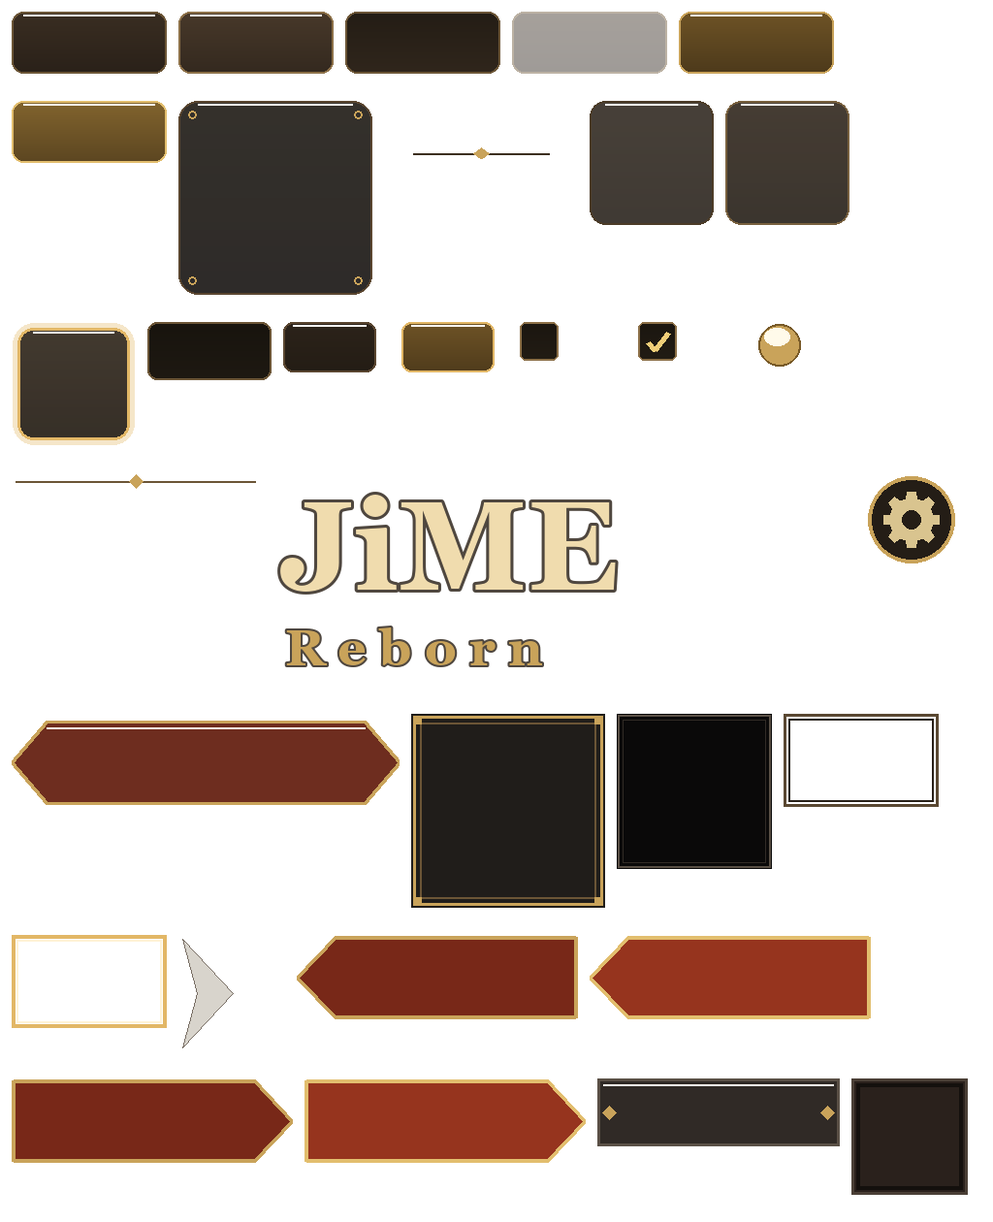
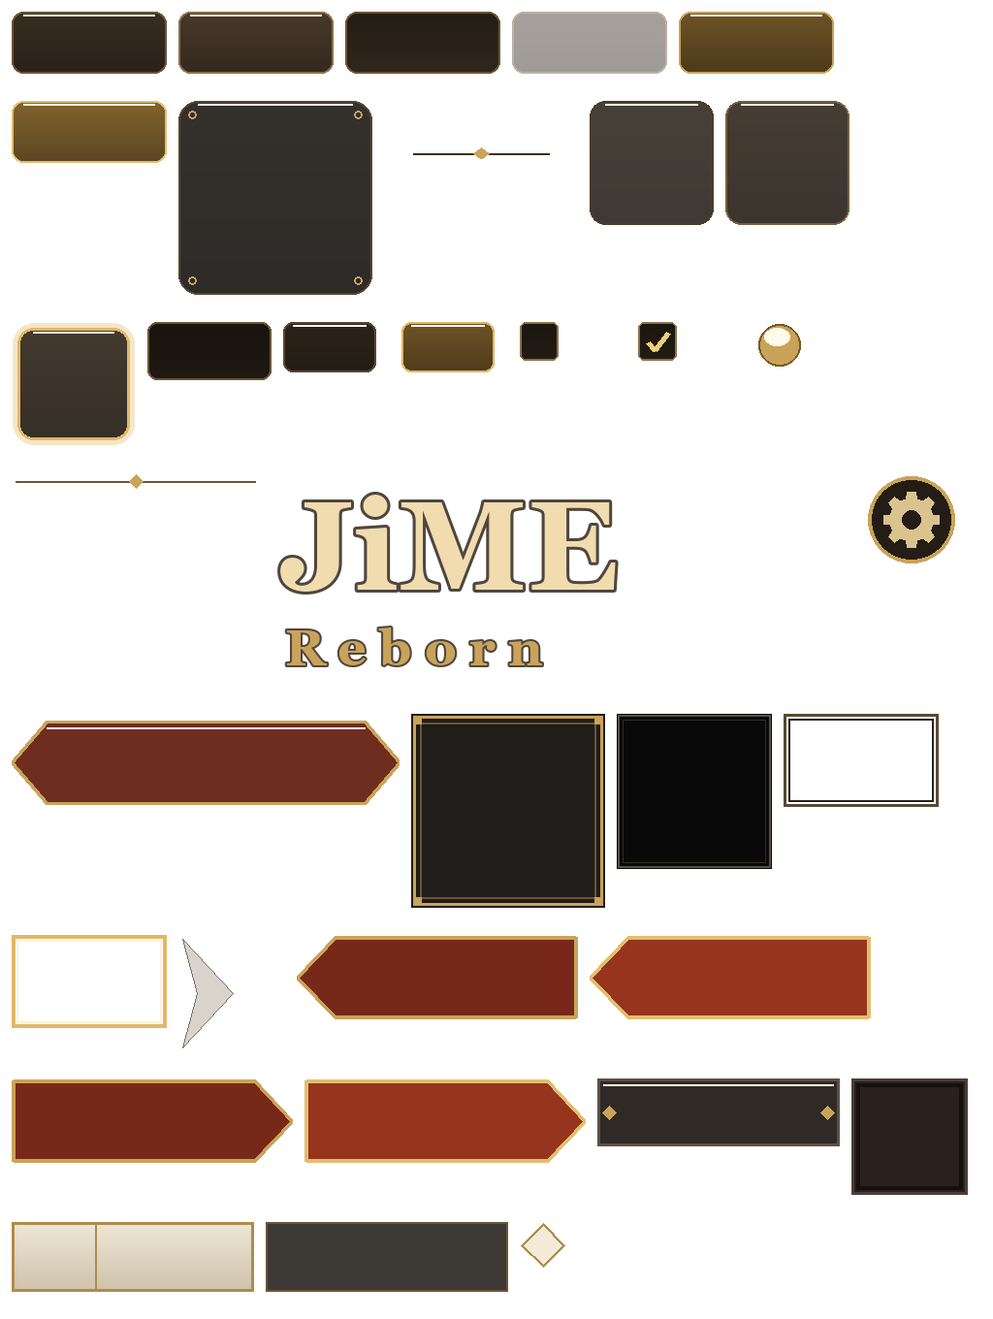
Starting gear and party name laid out like the original
- new step after the heroes: a column per hero (portrait, armor, weapon in hand, a second one unless the first is
  two-handed or a hobbit has none), a click on an item lists the cards it can be swapped for (itemSubstitutes);
  the chosen gear goes into the new campaign (heroItems)
- party name: the title plate, one field in the middle, a warning without a name, back / start in the corners
- the title plate widens with its text; skin regions item, item.empty, level
- demo pack: item types (armors, items) and two leather armors, so every hero starts with armor

Claude-Session: https://claude.ai/code/session_01L8aGjgA4exAss1WkdLM4Fb

diff --git a/apps/app/src/screens/menu/PlainTitle.tsx b/apps/app/src/screens/menu/PlainTitle.tsx
@@ -2,7 +2,7 @@
 // heroes, party name), saved campaigns, settings. The pictures and texts come from the packs; the look from styles.css
 // (.pm-*) and the background from MenuBackground (a theme's parallax layers).
 import { useMemo, useState } from "react";
-import { newCampaignSave, scopeProducts, type CampaignSave, type ContentSource, type Difficulty } from "@jime/engine";
+import { itemCounts, itemSubstitutes, newCampaignSave, scopeProducts, type CampaignSave, type ContentSource, type Difficulty } from "@jime/engine";
 import { setLang, useLang } from "../../data/lang.ts";
 import { inTauri, quitApp } from "../../data/host.ts";
 import { installTheme, loadPackSet, themeChoice } from "../../data/pack.ts";
@@ -13,7 +13,7 @@ import { MenuBackground } from "./MenuBackground.tsx";
 import { refId, useMenuData, type MenuUi } from "./useMenuData.ts";
 import { useEffect } from "react";
 
-type Page = "main" | "campaign" | "difficulty" | "heroes" | "party" | "load" | "settings";
+type Page = "main" | "campaign" | "difficulty" | "heroes" | "items" | "party" | "load" | "settings";
 const LANG_NAME: Record<string, string> = { ru: "Русский", en: "English", it: "Italiano", de: "Deutsch", fr: "Français", es: "Español", pl: "Polski", uk: "Українська" };
 
 /** HeroModel ids a campaign may use (its products, else every hero), sorted by name */
@@ -51,6 +51,10 @@ export function PlainTitle({ onPlay, onTools, hasOriginal }: {
   const [heroes, setHeroes] = useState<number[]>([]);
   const [party, setParty] = useState("");
   const [shelf, setShelf] = useState(0); // the page of campaign thumbnails
+  // starting items per hero: [armor, weapon, second weapon] (StartingItemController), the slot being replaced
+  const [items, setItems] = useState<(number | null)[][]>([]);
+  const [replace, setReplace] = useState<{ hero: number; slot: number } | null>(null);
+  const [nameWarn, setNameWarn] = useState(false);
   const [langs, setLangs] = useState<string[]>(["ru", "en", "it"]);
   useEffect(() => { loadPackSet().then((s) => { if (s.langs.length) setLangs(s.langs); }).catch(() => {}); }, []);
   useEffect(() => { sound.music(page === "main" || page === "load" || page === "settings" ? "TitlescreenMusic" : "NewGameMusic"); }, [page]);
@@ -65,7 +69,9 @@ export function PlainTitle({ onPlay, onTools, hasOriginal }: {
   const start = () => {
     const src = { db: () => ui.db } as unknown as ContentSource;
     const owned = ownedProducts();
-    const s = newCampaignSave(src, { campaign: campaign!, heroes, difficulty, partyName: party.trim(), language: lang, ...(owned ? { products: owned } : {}) });
+    const heroItems = heroes.map((_, i) => (items[i] ?? []).filter((x): x is number => x !== null));
+    const s = newCampaignSave(src, { campaign: campaign!, heroes, difficulty, partyName: party.trim(), language: lang, heroItems,
+      ...(owned ? { products: owned } : {}) });
     putSave(s);
     onPlay(s, true);
   };
@@ -195,16 +201,93 @@ export function PlainTitle({ onPlay, onTools, hasOriginal }: {
           })}
         </div>
         <button className="lo-corner lo-back" onClick={() => { setShelf(0); setPage("difficulty"); }}><span>{t("back")}</span></button>
-        <button className="lo-corner lo-next" disabled={!heroes.length} onClick={() => setPage("party")}><span>{t("toParty")}</span></button>
+        <button className="lo-corner lo-next" disabled={!heroes.length}
+          onClick={() => { setItems(defaultItems(ui, heroes, scopeProducts(ui.db, campaign, ownedProducts()))); setReplace(null); setPage("items"); }}>
+          <span>{t("toItems")}</span></button>
+      </div>
+    );
+  } else if (page === "items") {
+    // like the original: a column per hero (name, portrait, armor, weapon in hand and a second one), a click on an item
+    // opens the list of the cards it can be swapped for (same level and kind, copies left in the products)
+    const I = ui.db.models.ItemModel ?? {};
+    const products = scopeProducts(ui.db, campaign, ownedProducts());
+    const twoHanded = (id: number | null) => id !== null && !!Number(I[String(id)]?.Is2Handed ?? 0);
+    const hobbit = (h: number) => (Number(H[String(h)]?.Traits ?? 0) & 8) !== 0;
+    const itemCard = (id: number | null, onClick: () => void, key?: string | number) => {
+      const m = id !== null ? I[String(id)] : null;
+      const icon = id !== null ? ui.art.items[String(id)]?.Icon : undefined;
+      return (
+        <button key={key} className={`lo-item${m ? "" : " empty"}`} onClick={onClick}>
+          <span className="lo-item-icon">{icon && <img src={ui.pic(icon)} alt="" />}</span>
+          <b>{m ? ui.raw(m.NameKey) || m.m_Name : t("noneChosen")}</b>
+          {m && <i className="lo-item-level">{roman(Number(m.Level ?? 1))}</i>}
+          {twoHanded(id) && <i className="lo-item-2h" title={t("twoHanded")}>✋✋</i>}
+        </button>
+      );
+    };
+    const choose = (hero: number, slot: number, id: number) => {
+      setItems((all) => all.map((row, i) => {
+        if (i !== hero) return row;
+        const r = [...row];
+        if (slot > 0 && twoHanded(id)) { r[1] = id; r[2] = null; } else r[slot] = id;
+        return r;
+      }));
+      setReplace(null);
+    };
+    const subs = replace ? itemSubstitutes(ui.db, items.map((r) => r.filter((x): x is number => x !== null)), heroes[replace.hero]!,
+      replace.slot === 0 ? "armor" : "weapon", items[replace.hero]?.[replace.slot] ?? null, products) : [];
+    const repId = replace ? items[replace.hero]?.[replace.slot] ?? null : null;
+    body = (
+      <div className="lo-campaign lo-items">
+        <h2 className="lo-banner"><span>{t("toItems")}</span></h2>
+        <div className="lo-gear-cols">
+          {heroes.map((h, i) => {
+            const row = items[i] ?? [null, null, null];
+            const a = ui.art.heroes[String(h)];
+            const second = !twoHanded(row[1] ?? null) && (row[2] !== null || !hobbit(h));
+            return (
+              <div key={h} className="lo-gear-col">
+                <div className="lo-hero lo-gear-hero">
+                  <b className="lo-hero-name"><span>{ui.raw(H[String(h)]?.NameKey)}</span></b>
+                  <span className="lo-hero-pic">{(a?.portrait || a?.icon) ? <img src={ui.pic(a.portrait ?? a.icon)} alt="" /> : <i>{ui.raw(H[String(h)]?.NameKey).slice(0, 1)}</i>}</span>
+                </div>
+                <small>{t("armor")}</small>
+                {itemCard(row[0] ?? null, () => setReplace({ hero: i, slot: 0 }))}
+                <small>{t("inHands")}</small>
+                {itemCard(row[1] ?? null, () => setReplace({ hero: i, slot: 1 }))}
+                {second && itemCard(row[2] ?? null, () => setReplace({ hero: i, slot: 2 }))}
+              </div>
+            );
+          })}
+        </div>
+        {replace && (
+          <div className="lo-modal" onClick={() => setReplace(null)}>
+            <div className="lo-replace" onClick={(e) => e.stopPropagation()}>
+              <p>{repId !== null ? t("replaceItem") : t(replace.slot === 0 ? "chooseArmor" : "chooseItem")}
+                {repId !== null && <b>{ui.raw(I[String(repId)]?.NameKey)}</b>}</p>
+              <div className="lo-replace-list">
+                {subs.length ? subs.map((id) => itemCard(id, () => choose(replace.hero, replace.slot, id), id)) : <p className="muted">{t("noSubstitutes")}</p>}
+              </div>
+            </div>
+          </div>
+        )}
+        <button className="lo-corner lo-back" onClick={() => { setReplace(null); setPage("heroes"); }}><span>{t("back")}</span></button>
+        <button className="lo-corner lo-next" onClick={() => { setReplace(null); setNameWarn(false); setPage("party"); }}><span>{t("toParty")}</span></button>
       </div>
     );
   } else if (page === "party") {
+    // like the original: the title plate, one name field in the middle, back / start in the corners
+    const go = () => { if (!party.trim()) { setNameWarn(true); return; } start(); };
     body = (
-      <Step title={t("partyName")} sub={t("partyNameHint")} onBack={() => setPage("heroes")} onNext={start} nextLabel={t("start")} canNext={party.trim().length > 0} t={t}>
-        <input className="pm-input" autoFocus maxLength={30} value={party} onChange={(e) => setParty(e.target.value)}
-          onKeyDown={(e) => { if (e.key === "Enter" && party.trim()) start(); }} />
-        <p className="pm-summary">{ui.raw(C[String(campaign)]?.TitleKey)} · {heroes.map((h) => ui.raw(H[String(h)]?.NameKey)).join(", ")}</p>
-      </Step>
+      <div className="lo-campaign lo-party">
+        <h2 className="lo-banner"><span>{t("toParty")}</span></h2>
+        <input className="pm-input lo-name" autoFocus maxLength={24} value={party} placeholder={t("partyNamePlaceholder")}
+          onChange={(e) => { setNameWarn(false); setParty(e.target.value); }} onKeyDown={(e) => { if (e.key === "Enter") go(); }} />
+        {nameWarn && <p className="lo-warn">{t("partyNameNeeded")}</p>}
+        <p className="lo-party-sum">{ui.raw(C[String(campaign)]?.TitleKey)} · {heroes.map((h) => ui.raw(H[String(h)]?.NameKey)).join(", ")}</p>
+        <button className="lo-corner lo-back" onClick={() => setPage("items")}><span>{t("back")}</span></button>
+        <button className="lo-corner lo-next" onClick={go}><span>{t("start")}</span></button>
+      </div>
     );
   } else if (page === "load") {
     body = (
@@ -245,6 +328,24 @@ export function PlainTitle({ onPlay, onTools, hasOriginal }: {
       <div className={`pm-page pm-page-${page}`} key={page}>{body}</div>
     </div>
   );
+}
+
+const ROMAN = ["", "I", "II", "III", "IV", "V", "VI"];
+const roman = (n: number) => ROMAN[n] ?? String(n);
+
+/** ItemSelectionSlot.DisplayHero: each hero's default armor / weapon / second weapon while copies are left */
+function defaultItems(ui: MenuUi, heroes: number[], products?: number[]): (number | null)[][] {
+  const max = itemCounts(ui.db, products);
+  const used = new Map<number, number>();
+  const take = (id: number | null) => {
+    if (id === null || (used.get(id) ?? 0) >= (max.get(id) ?? 0)) return null;
+    used.set(id, (used.get(id) ?? 0) + 1);
+    return id;
+  };
+  return heroes.map((h) => {
+    const m = ui.db.models.HeroModel?.[String(h)] ?? {};
+    return [take(refId(m.DefaultArmor)), take(refId(m.DefaultWeapon)), take(refId(m.DefaultSecondWeapon))];
+  });
 }
 
 /** The settings gear (the skin's "gear" picture covers it when there is one) */

diff --git a/apps/app/src/styles.css b/apps/app/src/styles.css
@@ -830,7 +830,7 @@ textarea.ed-input { resize: vertical; white-space: pre-wrap; }
    Sizes in u = 1/1080 of the height of a 16:9 screen (the original's UI scales with the screen like that); the positions
    are fixed, lists scroll or page instead of pushing the layout around. */
 .pm-screen { --u: calc(min(100vh, 56.25vw) / 1080); }
-.pm-page-main, .pm-page-campaign, .pm-page-difficulty, .pm-page-heroes { display: block; padding: 0; }
+.pm-page-main, .pm-page-campaign, .pm-page-difficulty, .pm-page-heroes, .pm-page-items, .pm-page-party { display: block; padding: 0; }
 .lo-title, .lo-campaign { position: absolute; inset: 0; }
 .lo-title .lo-logo { position: absolute; left: calc(72 * var(--u)); top: calc(80 * var(--u)); margin: 0; font-size: calc(130 * var(--u)); line-height: 1; }
 .skinned .lo-title .pm-logo.lo-logo { width: min(calc(270 * var(--u) * var(--ar)), calc(980 * var(--u)), calc(100vw - 144 * var(--u))); }
@@ -851,8 +851,8 @@ textarea.ed-input { resize: vertical; white-space: pre-wrap; }
 .skinned .lo-gear svg { visibility: hidden; }
 
 /* campaign selection: title plate, the chosen campaign (text | picture), the thumbnails shelf, back / next in the corners */
-.lo-banner { position: absolute; left: 50%; top: calc(22 * var(--u)); transform: translateX(-50%); box-sizing: border-box; width: calc(767 * var(--u));
-  max-width: calc(100vw - 32px); height: calc(100 * var(--u)); margin: 0; display: flex; align-items: center; justify-content: center; padding: 0 calc(90 * var(--u));
+.lo-banner { position: absolute; left: 50%; top: calc(22 * var(--u)); transform: translateX(-50%); box-sizing: border-box; width: max-content;
+  min-width: min(calc(767 * var(--u)), calc(100vw - 32px)); max-width: min(calc(1100 * var(--u)), calc(100vw - 32px)); height: calc(100 * var(--u)); margin: 0; display: flex; align-items: center; justify-content: center; padding: 0 calc(90 * var(--u));
   font-family: "JiME Title", Georgia, serif; font-weight: normal; font-size: calc(40 * var(--u)); color: #f3e2b8; text-shadow: 0 2px 4px #000; white-space: nowrap;
   background: linear-gradient(90deg, transparent, #5a1d12 12%, #6e2516 50%, #5a1d12 88%, transparent); }
 .lo-banner span { overflow: hidden; text-overflow: ellipsis; }
@@ -973,4 +973,52 @@ textarea.ed-input { resize: vertical; white-space: pre-wrap; }
   .lo-hero-name { font-size: calc(26 * var(--u)); }
   .lo-slots { top: auto; bottom: calc(150 * var(--u)); }
   .lo-slot { width: calc(100 * var(--u)); height: calc(100 * var(--u)); }
+}
+
+/* starting gear like the original: a column per hero, item cards under the portrait, a replacement list over it */
+.lo-gear-cols { position: absolute; left: 50%; top: calc(170 * var(--u)); bottom: calc(130 * var(--u)); transform: translateX(-50%); display: flex;
+  gap: calc(22 * var(--u)); max-width: calc(100vw - 16px); }
+.lo-gear-col { flex: 0 0 calc(250 * var(--u)); display: flex; flex-direction: column; align-items: center; gap: calc(6 * var(--u)); }
+.lo-gear-col > small { font-family: "JiME Title", Georgia, serif; font-size: calc(24 * var(--u)); color: #f3e2b8; text-shadow: 0 1px 3px #000; margin-top: calc(4 * var(--u)); }
+.lo-hero.lo-gear-hero { height: calc(370 * var(--u)); cursor: default; }
+@media (hover: hover) { .lo-hero.lo-gear-hero:hover { transform: none; } }
+.lo-item { position: relative; box-sizing: border-box; width: calc(250 * var(--u)); height: calc(72 * var(--u)); flex: 0 0 auto; padding: 0 calc(30 * var(--u)) 0 0;
+  display: flex; align-items: center; gap: calc(10 * var(--u)); cursor: pointer; font: inherit; color: #1d1712; text-align: left;
+  background: linear-gradient(#eee6d6, #cfc3ac); border: 2px solid #b08b4a; border-radius: 3px; box-shadow: 0 2px 6px rgba(0, 0, 0, 0.6); }
+.lo-item.empty { background: rgba(30, 25, 20, 0.85); color: #b9a582; }
+.lo-item-icon { flex: 0 0 calc(86 * var(--u)); align-self: stretch; overflow: hidden; background: #2a221a; }
+.lo-item-icon img { width: 100%; height: 100%; object-fit: cover; display: block; }
+.lo-item b { flex: 1; min-width: 0; font-family: "JiME Title", Georgia, serif; font-weight: normal; font-size: calc(26 * var(--u)); line-height: 1.05;
+  text-align: center; overflow: hidden; display: -webkit-box; -webkit-line-clamp: 2; -webkit-box-orient: vertical; }
+.lo-item-level { position: absolute; right: calc(-8 * var(--u)); bottom: calc(-8 * var(--u)); width: calc(34 * var(--u)); height: calc(34 * var(--u)); display: flex;
+  align-items: center; justify-content: center; font-style: normal; font-family: "JiME Title", Georgia, serif; font-size: calc(18 * var(--u)); color: #3a2e22;
+  isolation: isolate; }
+/* the diamond under the level's number */
+.lo-item-level::before { content: ""; position: absolute; inset: 0; z-index: -1; transform: rotate(45deg); background: #f3ead8; border: 2px solid #b08b4a; }
+.lo-item-2h { position: absolute; right: calc(6 * var(--u)); top: calc(2 * var(--u)); font-style: normal; font-size: calc(14 * var(--u)); opacity: 0.55; }
+@media (hover: hover) { .lo-item:hover { filter: brightness(1.08); } }
+.lo-modal { position: absolute; inset: 0; z-index: 5; display: flex; align-items: center; justify-content: center; background: rgba(0, 0, 0, 0.55); }
+.lo-replace { box-sizing: border-box; width: calc(440 * var(--u)); min-width: min(320px, calc(100vw - 32px)); max-height: calc(700 * var(--u)); display: flex;
+  flex-direction: column; gap: calc(12 * var(--u)); padding: calc(22 * var(--u)) calc(30 * var(--u)); background: #2c3328; border: 3px solid #8a7445;
+  box-shadow: 0 10px 40px #000; }
+.lo-replace > p { margin: 0; text-align: center; font-size: max(12px, calc(20 * var(--u))); color: #f0e6cc; }
+.lo-replace > p b { display: block; color: #e8c76a; font-weight: normal; }
+.lo-replace-list { flex: 1; min-height: 0; overflow-y: auto; display: flex; flex-direction: column; align-items: center; gap: calc(12 * var(--u)); padding: 4px 10px 12px; }
+.lo-name { position: absolute; left: 50%; top: calc(420 * var(--u)); transform: translateX(-50%); width: calc(780 * var(--u)); max-width: calc(100vw - 32px);
+  height: calc(118 * var(--u)); box-sizing: border-box; text-align: center; font-size: max(16px, calc(34 * var(--u))); }
+.lo-warn { position: absolute; left: 0; right: 0; top: calc(560 * var(--u)); margin: 0; text-align: center; color: #ff9a7a; text-shadow: 0 1px 3px #000; }
+.lo-party-sum { position: absolute; left: 0; right: 0; top: calc(620 * var(--u)); margin: 0; text-align: center; color: #d8c8a6; text-shadow: 0 1px 3px #000;
+  font-size: max(12px, calc(22 * var(--u))); padding: 0 16px; }
+.skinned .lo-item { border-color: transparent; border-radius: 0; box-shadow: none; background: none;
+  border-image: var(--sk-item) var(--sk-item-slice) / var(--sk-item-w); }
+.skinned .lo-item.empty { border-image-source: var(--sk-item-empty); }
+.skinned .lo-item-level::before { transform: none; border: none; background: var(--sk-level) center / contain no-repeat; }
+.skinned .lo-replace { background: none; border-color: transparent; border-image: var(--sk-panel) var(--sk-panel-slice) / var(--sk-panel-w); }
+@media (max-aspect-ratio: 4/5) {
+  .lo-gear-cols { justify-content: flex-start; left: 8px; right: 8px; transform: none; bottom: calc(140 * var(--u)); overflow: auto hidden; scrollbar-width: thin; }
+  .lo-gear-col { flex-basis: calc(300 * var(--u)); }
+  .lo-hero.lo-gear-hero { width: calc(300 * var(--u)); height: calc(420 * var(--u)); }
+  .lo-item { width: calc(300 * var(--u)); height: calc(84 * var(--u)); }
+  .lo-name { top: calc(360 * var(--u)); }
+  .lo-replace { width: calc(100vw - 32px); max-height: 80vh; }
 }

diff --git a/apps/app/src/ui/i18n.ts b/apps/app/src/ui/i18n.ts
@@ -17,7 +17,18 @@ const DICT: Record<string, { ru: string; en: string; it: string }> = {
   toDifficulty: { ru: "Выберите уровень сложности", en: "Choose the difficulty", it: "Scegliete la difficoltà" },
   toHeroes: { ru: "Выберите героев", en: "Choose the heroes", it: "Scegliete gli eroi" },
   chooseHeroes: { ru: "Выберите героев", en: "Choose your heroes", it: "Scegliete i vostri eroi" },
-  toParty: { ru: "Назовите отряд", en: "Name the fellowship", it: "Date un nome alla compagnia" },
+  toParty: { ru: "Укажите название отряда", en: "Name the fellowship", it: "Date un nome alla compagnia" },
+  toItems: { ru: "Выберите стартовое снаряжение", en: "Choose the starting gear", it: "Scegliete l'equipaggiamento iniziale" },
+  armor: { ru: "Броня", en: "Armor", it: "Armatura" },
+  inHands: { ru: "В руках", en: "In hand", it: "In mano" },
+  noneChosen: { ru: "— нет —", en: "- none -", it: "- nessuno -" },
+  twoHanded: { ru: "Двуручное", en: "Two-handed", it: "A due mani" },
+  replaceItem: { ru: "Выберите, на какую карту снаряжения заменить карту", en: "Choose the gear card to replace", it: "Scegliete la carta con cui sostituire" },
+  chooseArmor: { ru: "Выберите броню", en: "Choose an armor", it: "Scegliete un'armatura" },
+  chooseItem: { ru: "Выберите карту снаряжения", en: "Choose a gear card", it: "Scegliete una carta equipaggiamento" },
+  noSubstitutes: { ru: "Других карт этого уровня нет.", en: "No other cards of this level.", it: "Nessun'altra carta di questo livello." },
+  partyNamePlaceholder: { ru: "Введите название отряда…", en: "Enter the fellowship's name…", it: "Inserite il nome della compagnia…" },
+  partyNameNeeded: { ru: "Отряду нужно название.", en: "The fellowship needs a name.", it: "La compagnia ha bisogno di un nome." },
   easy: { ru: "Приключение", en: "Adventure", it: "Avventura" },
   easyDesc: { ru: "Для тех, кому важнее история, чем бои.", en: "For those who care more about the story than fights.", it: "Per chi tiene più alla storia che ai combattimenti." },
   normal: { ru: "Обычная", en: "Normal", it: "Normale" },

diff --git a/tools/demo-pack/build_demo.py b/tools/demo-pack/build_demo.py
@@ -299,6 +299,9 @@ SYSTEM_GLOBALS = {
     "IsTutorial": {"type": "bool", "value": 0}, "CorruptionPresence": {"type": "bool", "value": 0},
     "DarknessMessageOverride": {"type": "string", "value": ""}, "PartyName": {"type": "string", "value": ""},
 }
+# ItemType (actions.ts): 0 weapon, 1 armor, 2 item, 3 mount; copies in the box (default 1)
+ITEM_TYPE = {9111: 1, 9112: 1, 9113: 1, 9131: 2, 9132: 2}
+ITEM_COPIES = {9111: 2}
 CUTSCENES = [(9001, "CAM_DEMO_PROLOGUE"), (9002, "CAM_DEMO_VICTORY"), (9003, "CAM_DEMO_DEFEAT")]
 
 
@@ -308,7 +311,7 @@ def build_db(tile_models, standard, tiles):
                                "DefaultArmor": ref("ItemModel", ar), "DefaultWeapon": ref("ItemModel", w), "Gender": 0, "Traits": 0,
                                "StartingSkills": [{"Skill": ref("SkillModel", s), "Quantity": 2 if n == 0 else 1} for n, s in enumerate(HERO_SKILLS[h])]}
                       for h, k, _, _, w, ar, race in HEROES}
-    M["ItemModel"] = {str(i): {"m_Name": f"{i}_{k}", "_id": i, "NameKey": k, "Level": lv, **({"Is2Handed": 1} if two else {}),
+    M["ItemModel"] = {str(i): {"m_Name": f"{i}_{k}", "_id": i, "NameKey": k, "Level": lv, "Type": ITEM_TYPE.get(i, 0), **({"Is2Handed": 1} if two else {}),
                                "Upgrades": [ref("ItemModel", u) for u in up], "UpgradeCost": cost}
                       for i, k, lv, two, up, cost in ITEMS}
     M["SkillModel"] = {str(i): {"m_Name": f"{i}_{k}", "_id": i, "NameKey": k, "SourceType": st} for i, k, st in SKILLS}
@@ -340,7 +343,7 @@ def build_db(tile_models, standard, tiles):
     M["ProductModel"] = {str(PRODUCT): {"m_Name": f"{PRODUCT}_Demo Set", "Standalone": 1, "NameKey": "PROD_DEMO_TITLE", "DescriptionKey": "PROD_DEMO_DESC", "ContentsKey": "PROD_DEMO_CONTENTS",
                                "Tiles": [ref("TileModel", c, c) for c in sorted(tile_models)],
                                "Enemies": [ref("EnemyModel", e[0]) for e in ENEMIES],
-                               "Items": [{"Item": ref("ItemModel", i[0]), "Quantity": 1} for i in ITEMS],
+                               "Items": [{"Item": ref("ItemModel", i[0]), "Quantity": ITEM_COPIES.get(i[0], 1)} for i in ITEMS],
                                "Heroes": [ref("HeroModel", h[0]) for h in HEROES],
                                "Skills": [{"Skill": ref("SkillModel", s[0]), "Quantity": 3} for s in SKILLS],
                                "Encounters": [ref("EncounterModel", e["id"], e["model"]["m_Name"]) for e in ENCOUNTERS],

diff --git a/tools/menu-theme/build_skin.py b/tools/menu-theme/build_skin.py
@@ -58,6 +58,10 @@ REGIONS = [
     # heroes: the name plate over a portrait card, a slot of the chosen party
     ("plate", 250, 70, [20, 30, 20, 30]),
     ("slot", 120, 120, [14, 14, 14, 14]),
+    # starting gear: an item card (the picture on its left is the item's own), an empty one, the level diamond
+    ("item", 250, 72, [20, 30, 20, 90]),
+    ("item.empty", 250, 72, [20, 30, 20, 30]),
+    ("level", 48, 48, [0, 0, 0, 0]),
 ]
 # regions that always take the element's whole height (top + bottom slices meet; only the middle stretches sideways)
 FIT_HEIGHT = ("banner", "plate", "button.back", "button.back.hover", "button.next", "button.next.hover")
@@ -221,6 +225,25 @@ def draw(name, w, h):
         d.line([(6, 6), (w - 7, 6)], fill=(255, 235, 200, 50), width=2)
         for x in (12, w - 13):
             d.polygon([(x, h / 2 - 7), (x + 7, h / 2), (x, h / 2 + 7), (x - 7, h / 2)], fill=GOLD)
+        return img
+    if name.startswith("item"):
+        empty = name.endswith(".empty")
+        img = Image.new("RGBA", (w, h), (0, 0, 0, 0))
+        d = ImageDraw.Draw(img)
+        if empty:
+            d.rectangle([0, 0, w - 1, h - 1], fill=(30, 25, 20, 220), outline=(107, 85, 54, 255), width=2)
+        else:
+            for y in range(h):
+                k = y / (h - 1)
+                d.line([(0, y), (w, y)], fill=(int(238 - 31 * k), int(230 - 35 * k), int(214 - 42 * k), 255))
+            d.rectangle([0, 0, w - 1, h - 1], outline=(176, 139, 74, 255), width=3)
+            d.line([(86, 3), (86, h - 4)], fill=(176, 139, 74, 255), width=2)
+        return img
+    if name == "level":
+        img = Image.new("RGBA", (w, h), (0, 0, 0, 0))
+        d = ImageDraw.Draw(img)
+        c = w / 2
+        d.polygon([(c, 1), (w - 2, c), (c, h - 2), (1, c)], fill=(243, 234, 216, 255), outline=(176, 139, 74, 255), width=3)
         return img
     if name == "slot":
         img = Image.new("RGBA", (w, h), (42, 33, 28, 255))
